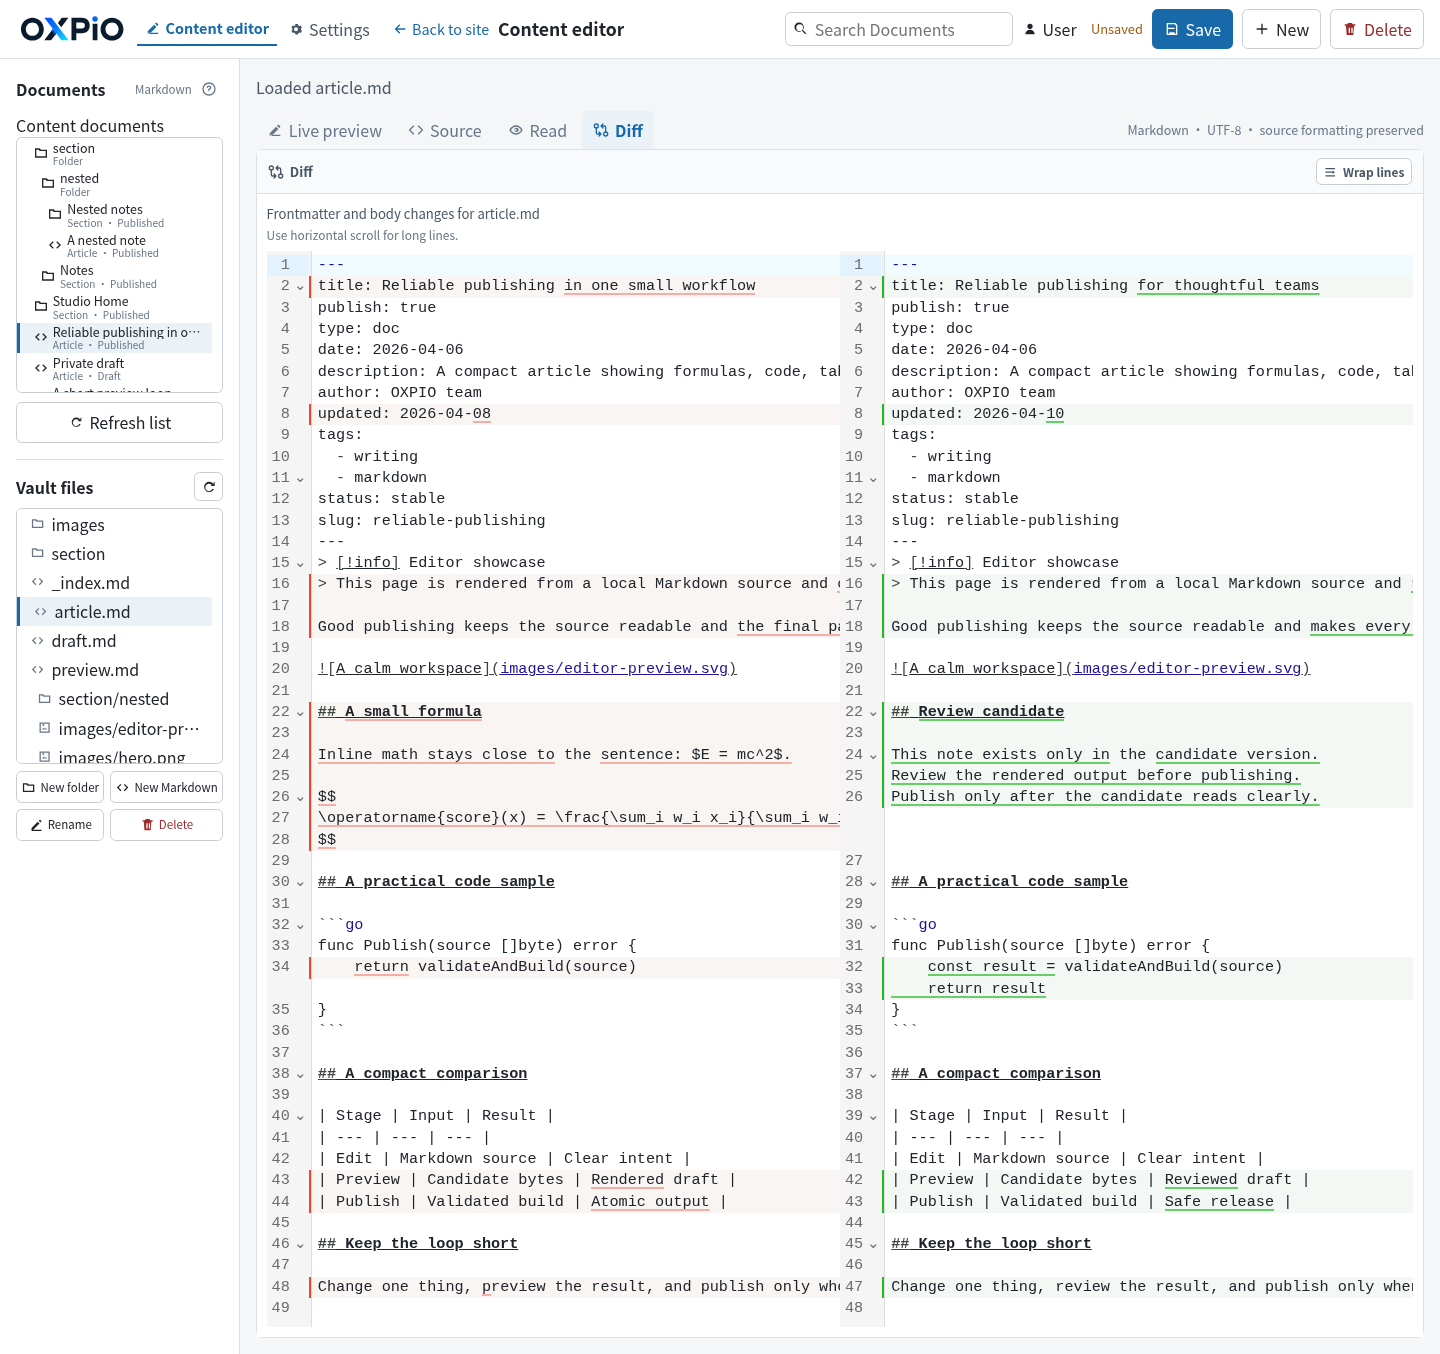
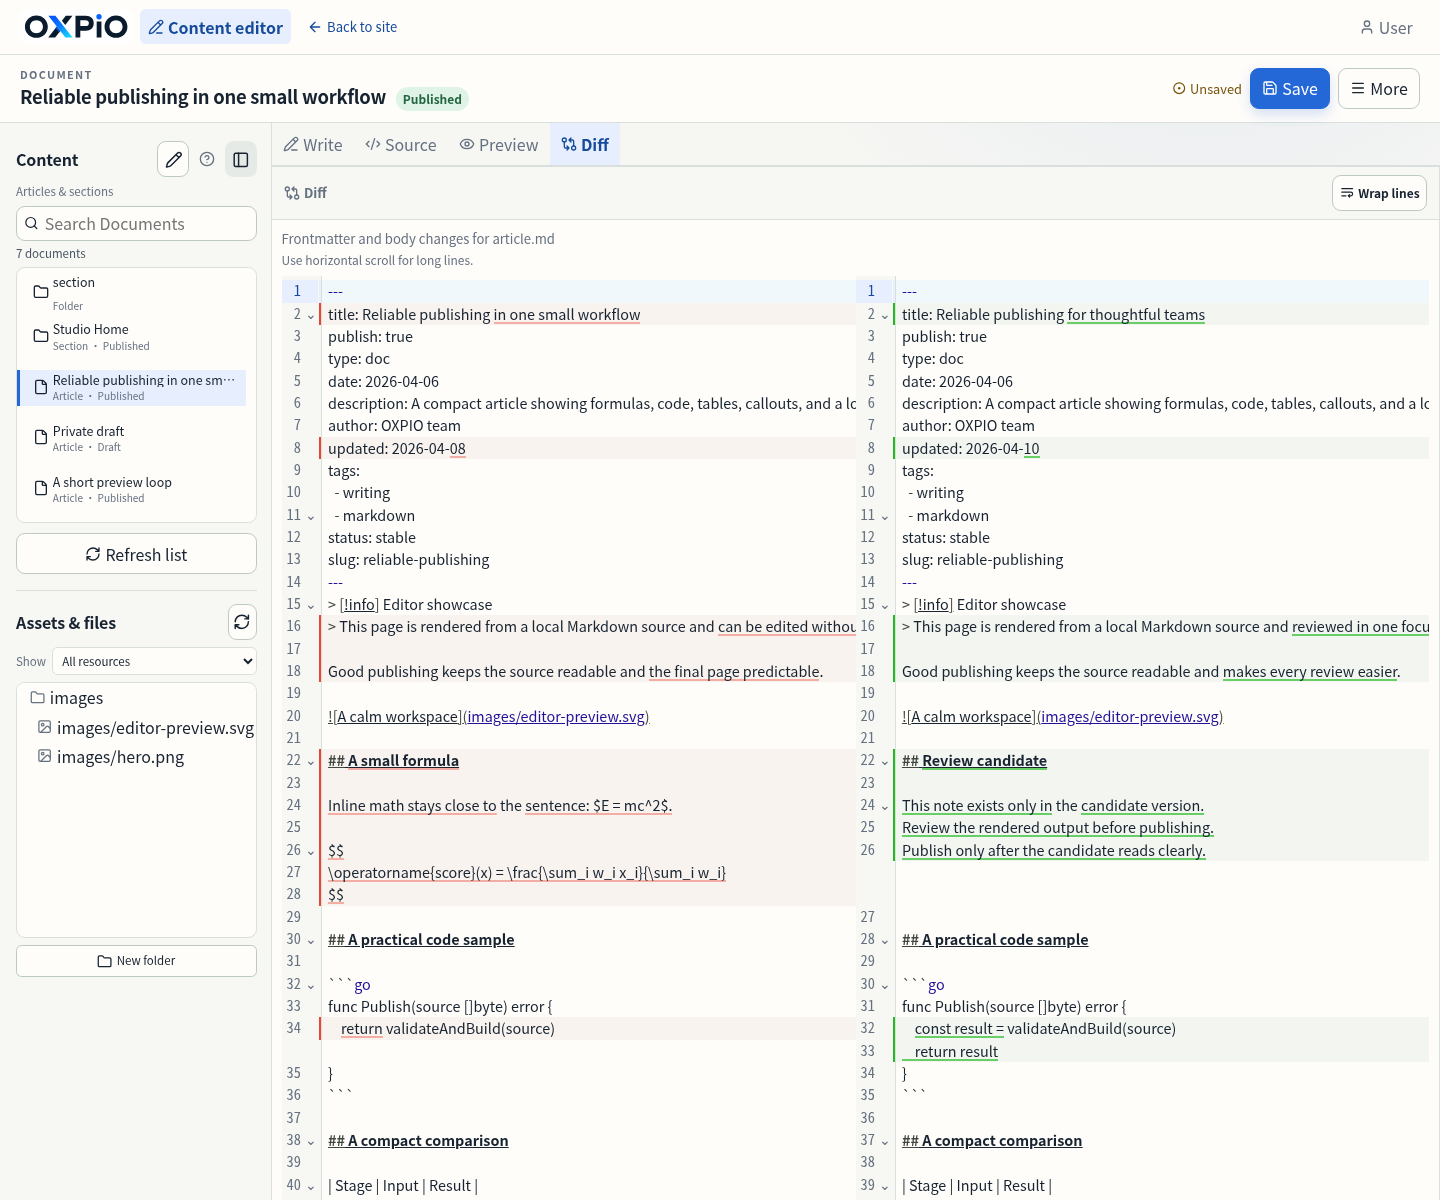
docs: refresh README editor screenshots

diff --git a/README.md b/README.md
@@ -16,19 +16,19 @@ OXPIO is also a focused online writing workspace. Run `oxpio editor`, open a Mar
 oxpio editor --vault ./vault --port 8080
 ```
 
-The editor keeps the vault as the source of truth and publishes only after validation and a successful build. It includes a local CodeMirror Markdown editor, metadata form, toolbar, Content and Assets & files panels, server-rendered draft preview, media library, responsive layout, Write/Source/Preview/Diff views, and safe save/rollback behavior. Live preview stays in one editor surface: the line under the pointer or cursor exposes Markdown while surrounding lines keep their rendered treatment. Use Preview for a complete server-rendered view. The English showcase article below intentionally exercises inline and block math, a Go code block, a Markdown table, a callout, and a local image.
+The editor keeps the vault as the source of truth and publishes only after validation and a successful build. It includes a local CodeMirror Markdown editor, metadata form, toolbar, Content and Assets & files panels, server-rendered draft preview, media library, responsive layout, Write/Source/Preview/Diff views, and safe save/rollback behavior. Write mode keeps rendered Markdown and source editing in one surface: click a rendered block to reveal its source, or move the cursor into Markdown syntax to see its original markers. Use Preview for a complete server-rendered draft. The English showcase article below intentionally exercises inline and block math, a Go code block, a Markdown table, a callout, and a local image.
 
 <div align="center">
-  <a href="docs/images/editor-live.png"><img src="docs/images/editor-live.png" alt="OXPIO editor single-surface Live preview with the active Markdown line exposed" width="49%"></a>
-  <a href="docs/images/editor-preview.png"><img src="docs/images/editor-preview.png" alt="OXPIO editor full-width Preview mode with rendered Markdown, formula, code block, and table" width="49%"></a>
+  <a href="docs/images/editor-write.png"><img src="docs/images/editor-write.png" alt="OXPIO editor Write mode with metadata, content tree, assets panel, and rendered Markdown" width="49%"></a>
+  <a href="docs/images/editor-preview.png"><img src="docs/images/editor-preview.png" alt="OXPIO editor Preview mode with a server-rendered draft, callout, formula, code block, and table" width="49%"></a>
 </div>
 
 <div align="center">
-  <a href="docs/images/editor-source.png"><img src="docs/images/editor-source.png" alt="OXPIO editor full-width source mode with frontmatter and Markdown content" width="49%"></a>
-  <a href="docs/images/editor-diff.png"><img src="docs/images/editor-diff.png" alt="OXPIO editor full-width Diff mode with source comparison and visible deletions" width="49%"></a>
+  <a href="docs/images/editor-source.png"><img src="docs/images/editor-source.png" alt="OXPIO editor Source mode with article frontmatter and Markdown content" width="49%"></a>
+  <a href="docs/images/editor-diff.png"><img src="docs/images/editor-diff.png" alt="OXPIO editor Diff mode comparing an unsaved candidate with the saved source" width="49%"></a>
 </div>
 
-<p align="center"><em>The captures show single-surface Live preview, the complete Preview view, full Markdown source, and source Diff for an unsaved candidate.</em></p>
+<p align="center"><em>The captures focus on the four main editing states: Write, Preview, Source, and Diff.</em></p>
 
 ## Commands
 
